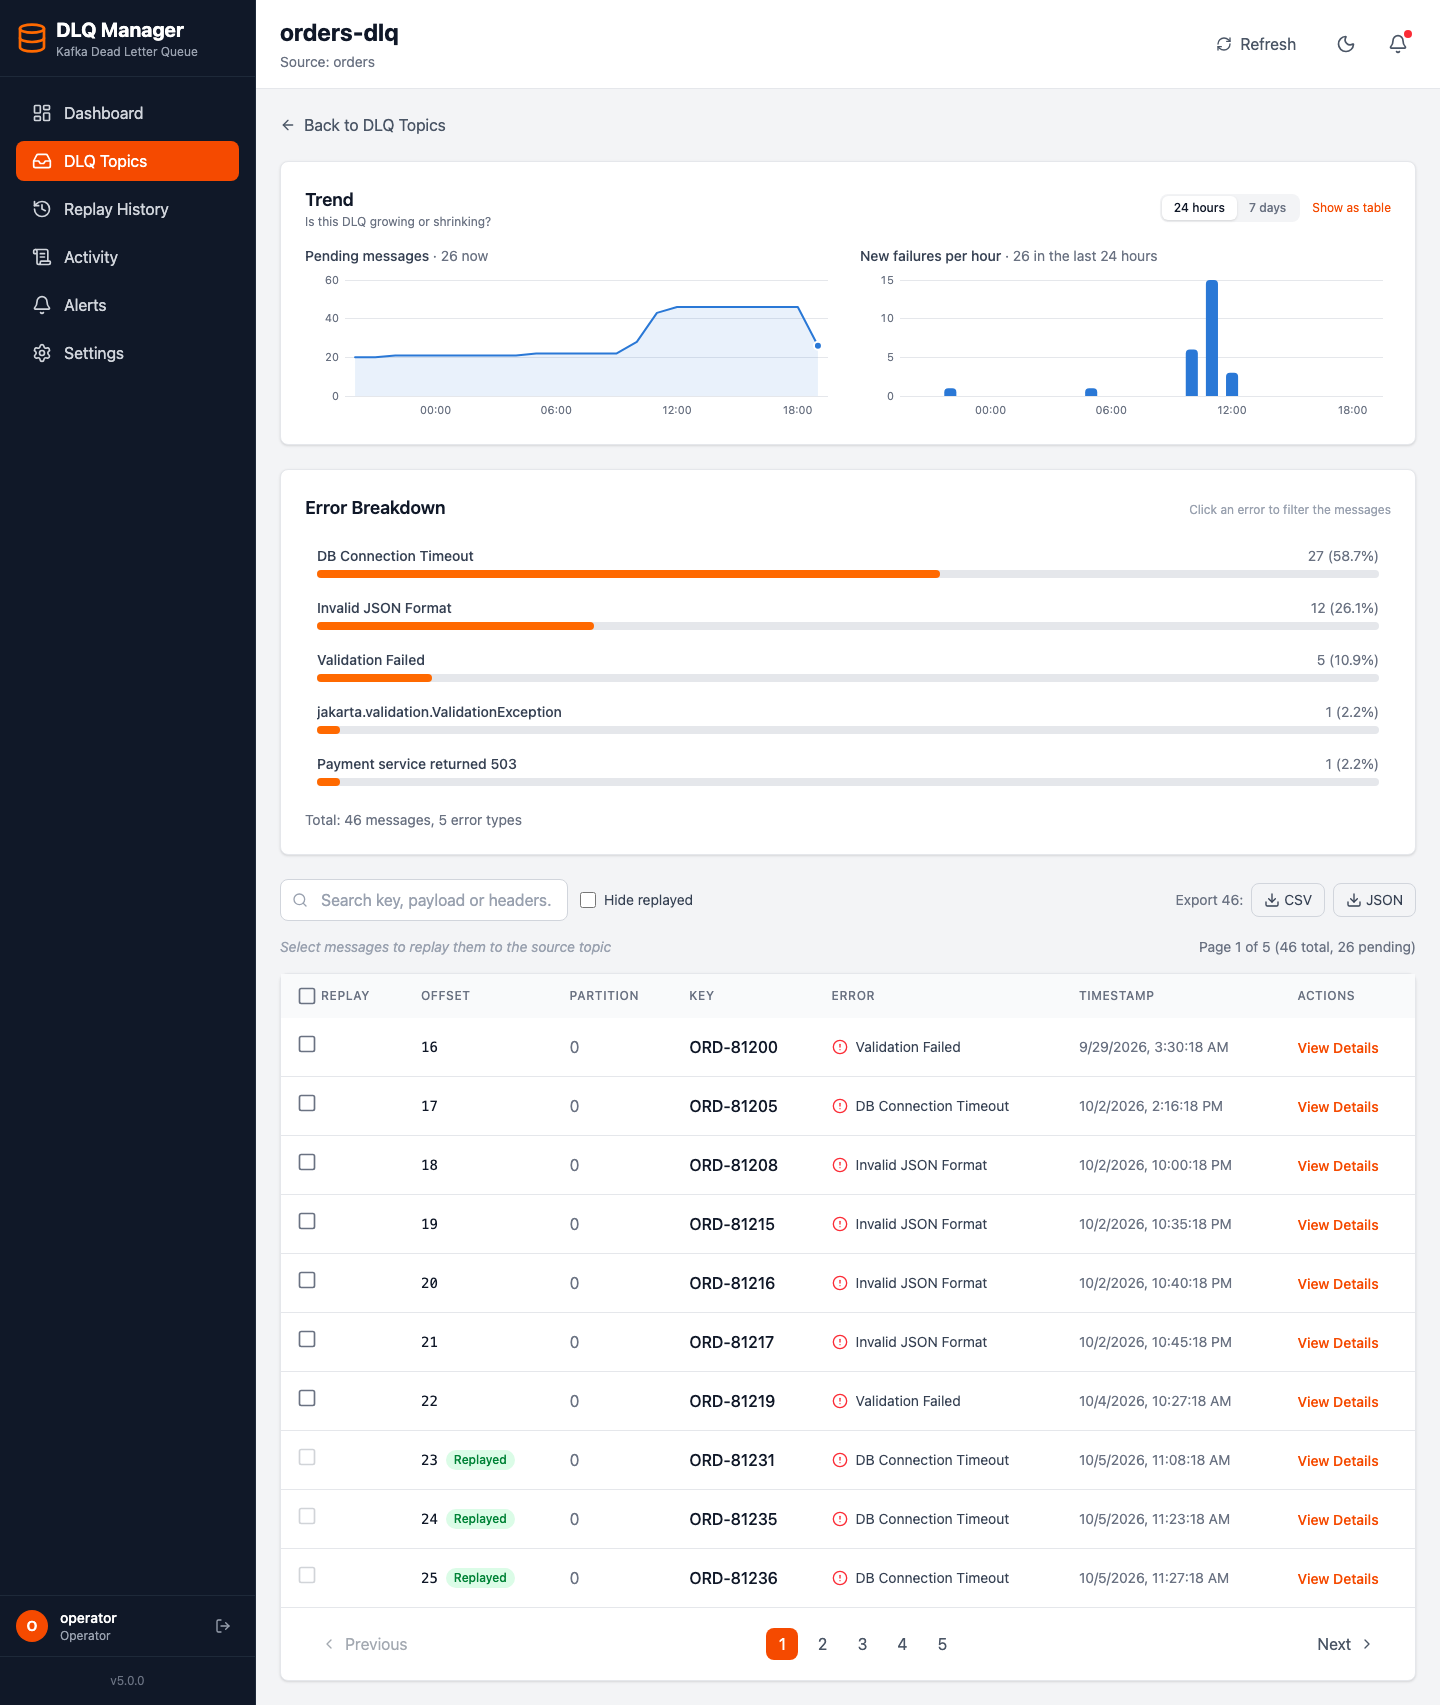
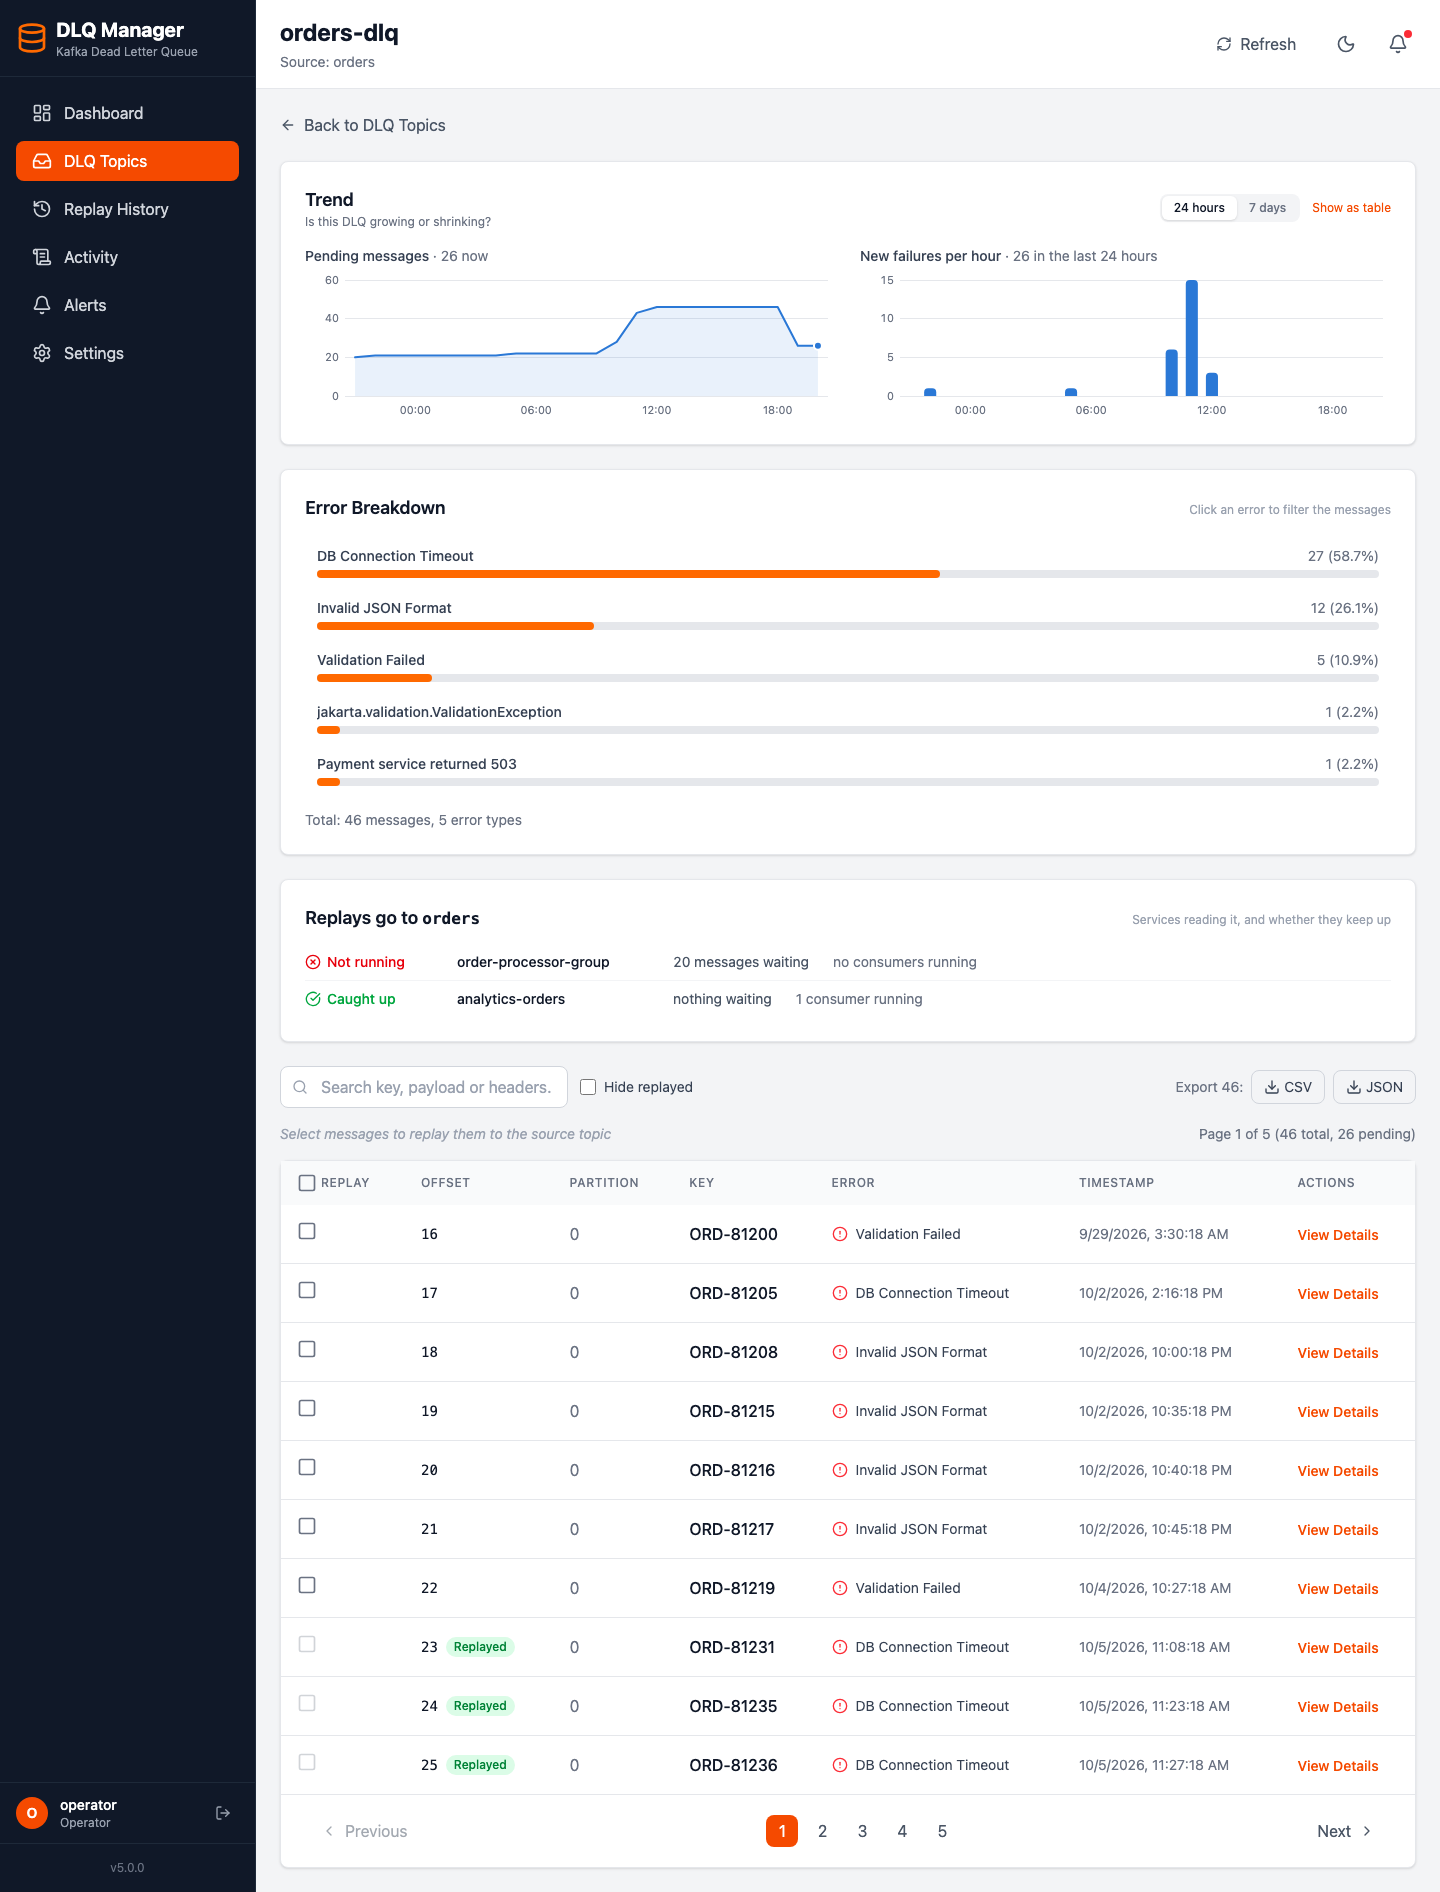
feat: warn before replaying into a stopped or lagging consumer

diff --git a/frontend/src/components/consumers/SourceConsumersCard.tsx b/frontend/src/components/consumers/SourceConsumersCard.tsx
@@ -1,0 +1,76 @@
+import { AlertTriangle, CheckCircle, RefreshCw, XCircle } from 'lucide-react';
+import type { ConsumerStatus, SourceConsumer } from '../../types';
+import { useSourceConsumers } from '../../hooks/useSourceConsumers';
+
+// Status is always an icon plus a word, never colour alone
+const STATUS: Record<ConsumerStatus, { label: string; icon: typeof CheckCircle; className: string }> = {
+  NOT_RUNNING: { label: 'Not running', icon: XCircle, className: 'text-red-600 dark:text-red-400' },
+  BEHIND: { label: 'Behind', icon: AlertTriangle, className: 'text-amber-600 dark:text-amber-400' },
+  REBALANCING: { label: 'Rebalancing', icon: RefreshCw, className: 'text-blue-600 dark:text-blue-400' },
+  CAUGHT_UP: { label: 'Caught up', icon: CheckCircle, className: 'text-green-600 dark:text-green-400' },
+};
+
+/**
+ * Who picks up replayed messages: the consumer groups of the DLQ's source topic.
+ * Replaying into a service that is down or far behind just moves the problem.
+ */
+export function SourceConsumersCard({ dlqTopicId }: { dlqTopicId: string }) {
+  const { data, isLoading, isError } = useSourceConsumers(dlqTopicId);
+
+  return (
+    <div className="bg-white dark:bg-gray-800 rounded-lg shadow-sm border border-gray-200 dark:border-gray-700 p-6 mb-6">
+      <div className="flex flex-wrap items-baseline justify-between gap-2 mb-3">
+        <h3 className="text-lg font-semibold text-gray-900 dark:text-white">
+          Replays go to {data ? <span className="font-mono text-base">{data.sourceTopic}</span> : 'the source topic'}
+        </h3>
+        <span className="text-xs text-gray-400 dark:text-gray-500">Services reading it, and whether they keep up</span>
+      </div>
+
+      {isLoading ? (
+        <p className="text-sm text-gray-500 dark:text-gray-400">Checking consumers...</p>
+      ) : isError || !data ? (
+        <p className="text-sm text-gray-500 dark:text-gray-400">Could not check the consumers of the source topic.</p>
+      ) : !data.topicExists ? (
+        <p className="flex items-center gap-2 text-sm text-red-600 dark:text-red-400">
+          <XCircle className="w-4 h-4 flex-shrink-0" />
+          "{data.sourceTopic}" doesn't exist in Kafka, so replays to it will fail.
+        </p>
+      ) : data.consumers.length === 0 ? (
+        <p className="flex items-center gap-2 text-sm text-amber-700 dark:text-amber-400">
+          <AlertTriangle className="w-4 h-4 flex-shrink-0" />
+          No service has read "{data.sourceTopic}" yet - replayed messages will wait there until one does.
+        </p>
+      ) : (
+        <ul className="divide-y divide-gray-100 dark:divide-gray-700">
+          {data.consumers.map((consumer) => (
+            <ConsumerRow key={consumer.groupId} consumer={consumer} />
+          ))}
+        </ul>
+      )}
+    </div>
+  );
+}
+
+function ConsumerRow({ consumer }: { consumer: SourceConsumer }) {
+  const status = STATUS[consumer.status];
+  const Icon = status.icon;
+  return (
+    <li className="flex flex-wrap items-center gap-x-6 gap-y-1 py-2 text-sm">
+      <span className={`flex items-center gap-1.5 w-32 font-medium ${status.className}`}>
+        <Icon className="w-4 h-4 flex-shrink-0" />
+        {status.label}
+      </span>
+      <span className="font-medium text-gray-900 dark:text-white min-w-48">{consumer.groupId}</span>
+      <span className="text-gray-600 dark:text-gray-300 tabular-nums">
+        {consumer.lag === 0
+          ? 'nothing waiting'
+          : `${consumer.lag.toLocaleString()} message${consumer.lag === 1 ? '' : 's'} waiting`}
+      </span>
+      <span className="text-gray-500 dark:text-gray-400">
+        {consumer.members === 0
+          ? 'no consumers running'
+          : `${consumer.members} consumer${consumer.members === 1 ? '' : 's'} running`}
+      </span>
+    </li>
+  );
+}

diff --git a/frontend/src/pages/DlqTopicDetailPage.tsx b/frontend/src/pages/DlqTopicDetailPage.tsx
@@ -3,6 +3,8 @@ import { useParams, Link } from 'react-router-dom';
 import { useQuery, useMutation, useQueryClient, keepPreviousData } from '@tanstack/react-query';
 import { Header } from '../components/layout';
 import { DlqTrendCard } from '../components/trend/DlqTrendCard';
+import { SourceConsumersCard } from '../components/consumers/SourceConsumersCard';
+import { replayWarning, useSourceConsumers } from '../hooks/useSourceConsumers';
 import { dlqTopicsApi } from '../api/dlqTopics';
 import { replayApi } from '../api/replay';
 import type { DlqMessage } from '../types';
@@ -39,6 +41,9 @@ export function DlqTopicDetailPage() {
   const [pendingOnly, setPendingOnly] = useState(false);
   const searchTimer = useRef<number | undefined>(undefined);
   const hasFilters = search !== '' || errorType !== null || pendingOnly;
+
+  // Who reads the source topic: checked before replaying, so nobody replays into a stopped service unawares
+  const { data: sourceConsumers } = useSourceConsumers(id);
 
   const { data: topic } = useQuery({
     queryKey: ['dlqTopic', id],
@@ -102,6 +107,7 @@ export function DlqTopicDetailPage() {
       setSelectedMessages(new Set());
       refetch();
       queryClient.invalidateQueries({ queryKey: ['replayHistory'] });
+      queryClient.invalidateQueries({ queryKey: ['sourceConsumers', id] });
       showReplayNotice(data.message, data.replayJob.failed > 0);
     },
     onError: () => {
@@ -144,6 +150,11 @@ export function DlqTopicDetailPage() {
       return { partition, offset };
     });
 
+    const warning = replayWarning(sourceConsumers, messages.length);
+    if (warning && !window.confirm(`${warning}\n\nReplay anyway?`)) {
+      return;
+    }
+
     try {
       await replayMutation.mutateAsync({
         dlqTopicId: id,
@@ -155,6 +166,10 @@ export function DlqTopicDetailPage() {
   };
 
   const handleReplayFromModal = async (message: DlqMessage) => {
+    const warning = replayWarning(sourceConsumers, 1);
+    if (warning && !window.confirm(`${warning}\n\nReplay anyway?`)) {
+      return;
+    }
     if (message.replayed && !window.confirm(
       'This message was already replayed. Sending it again may process it twice in the source system. Replay anyway?'
     )) {
@@ -241,6 +256,9 @@ export function DlqTopicDetailPage() {
             </p>
           </div>
         )}
+
+        {/* Where replays go: the services reading the source topic */}
+        {id && <SourceConsumersCard dlqTopicId={id} />}
 
         {/* Replay result */}
         {replayNotice && (

diff --git a/frontend/src/hooks/useSourceConsumers.ts b/frontend/src/hooks/useSourceConsumers.ts
@@ -1,0 +1,57 @@
+import { useQuery } from '@tanstack/react-query';
+import { dlqTopicsApi } from '../api/dlqTopics';
+import type { SourceConsumer, SourceConsumers } from '../types';
+
+// A consumer this far behind gets a warning before a replay (a little lag is normal on a busy topic)
+const FAR_BEHIND = 1_000;
+
+/**
+ * Consumer groups of the DLQ's source topic. The server remembers the answer for 30 seconds,
+ * so checking every 30 seconds here keeps the page current without extra load on Kafka.
+ */
+export function useSourceConsumers(dlqTopicId: string | undefined) {
+  return useQuery({
+    queryKey: ['sourceConsumers', dlqTopicId],
+    queryFn: () => dlqTopicsApi.getSourceConsumers(dlqTopicId!),
+    enabled: !!dlqTopicId,
+    refetchInterval: 30_000,
+    retry: false,
+  });
+}
+
+/**
+ * What an operator should know before replaying, or null if the consumers look fine
+ */
+export function replayWarning(info: SourceConsumers | undefined, messageCount: number): string | null {
+  if (!info) {
+    return null;
+  }
+  const topic = info.sourceTopic;
+  const replayed = messageCount === 1 ? 'the replayed message' : `the ${messageCount} replayed messages`;
+
+  if (!info.topicExists) {
+    return `The source topic "${topic}" doesn't exist in Kafka, so the replay will fail.`;
+  }
+  if (info.consumers.length === 0) {
+    return `No service has read "${topic}" yet, so ${replayed} will wait there until one does.`;
+  }
+
+  const stopped = info.consumers.filter((consumer) => consumer.status === 'NOT_RUNNING');
+  if (stopped.length > 0) {
+    return `${names(stopped)} ${stopped.length === 1 ? 'is' : 'are'} not running, so ${replayed} `
+      + `will wait in "${topic}" until ${stopped.length === 1 ? 'it starts' : 'they start'}.`;
+  }
+
+  const farBehind = info.consumers.filter((consumer) => consumer.status === 'BEHIND' && consumer.lag >= FAR_BEHIND);
+  if (farBehind.length > 0) {
+    const lag = Math.max(...farBehind.map((consumer) => consumer.lag)).toLocaleString();
+    return `${names(farBehind)} ${farBehind.length === 1 ? 'is' : 'are'} ${lag} messages behind, `
+      + `so ${replayed} will only be processed after those.`;
+  }
+  return null;
+}
+
+function names(consumers: SourceConsumer[]): string {
+  const shown = consumers.slice(0, 2).map((consumer) => consumer.groupId).join(' and ');
+  return consumers.length > 2 ? `${shown} and ${consumers.length - 2} more` : shown;
+}

diff --git a/frontend/src/api/dlqTopics.ts b/frontend/src/api/dlqTopics.ts
@@ -1,5 +1,5 @@
 import apiClient from './client';
-import type { DlqTopic, MessagePage, ErrorBreakdown, MessageFilters, DlqTrend, TrendRangeCode } from '../types';
+import type { DlqTopic, MessagePage, ErrorBreakdown, MessageFilters, DlqTrend, TrendRangeCode, SourceConsumers } from '../types';
 
 export const dlqTopicsApi = {
   // Get all DLQ topics
@@ -84,6 +84,12 @@ export const dlqTopicsApi = {
   getTrend: async (id: string, range: TrendRangeCode): Promise<DlqTrend> => {
     const utcOffsetMinutes = -new Date().getTimezoneOffset();
     const response = await apiClient.get(`/api/dlq-topics/${id}/trend`, { params: { range, utcOffsetMinutes } });
+    return response.data;
+  },
+
+  // Who reads the source topic replays go to, and whether they keep up
+  getSourceConsumers: async (id: string): Promise<SourceConsumers> => {
+    const response = await apiClient.get(`/api/dlq-topics/${id}/source-consumers`);
     return response.data;
   },
 

diff --git a/frontend/src/types/index.ts b/frontend/src/types/index.ts
@@ -62,6 +62,23 @@ export interface DlqTrend {
   points: TrendPoint[];
 }
 
+// Consumer groups that read a DLQ's source topic (where replays go)
+export type ConsumerStatus = 'CAUGHT_UP' | 'BEHIND' | 'NOT_RUNNING' | 'REBALANCING';
+
+export interface SourceConsumer {
+  groupId: string;
+  state: string;    // Kafka's group state, e.g. STABLE or EMPTY
+  members: number;  // consumers running in the group
+  lag: number;      // messages not processed yet
+  status: ConsumerStatus;
+}
+
+export interface SourceConsumers {
+  sourceTopic: string;
+  topicExists: boolean;
+  consumers: SourceConsumer[]; // the ones needing attention first
+}
+
 export interface ErrorBreakdownItem {
   errorType: string;
   count: number;

diff --git a/README.md b/README.md
@@ -29,7 +29,7 @@ This project started as a weekend experiment and has grown into a full platform 
 
 - **Browse** failed messages across all your DLQ topics, paginated
 - **Analyze** error patterns with a per-topic error breakdown, and see whether a DLQ is growing or shrinking on a 24-hour / 7-day trend chart
-- **Replay** single or bulk messages back to the source topic
+- **Replay** single or bulk messages back to the source topic, and see first whether the services reading that topic are running and keeping up (consumer lag) — with a warning before replaying into one that isn't
 - **Track** every replay operation with a full audit trail
 - **Configure** Kafka connections from the UI — no restart needed, including clusters that need a login and encryption (SASL + TLS)
 - **Alert** when a DLQ crosses a threshold, with Slack notifications
@@ -226,6 +226,7 @@ CI runs the full backend suite plus frontend lint and build on every push.
 ![Message Browser with Error Breakdown](assets/04-topic-detail-error-breakdown.png)
 ![Trend: pending messages and new failures per hour](assets/33-topic-trend.png)
 ![Trend over 7 days (Dark)](assets/34-dark-topic-trend.png)
+![Where replays go: consumers of the source topic and their lag](assets/35-source-consumers.png)
 ![Filtered by error type, replayed messages hidden](assets/27-search-filter.png)
 ![Message Detail](assets/05-message-detail-modal.png)
 ![Message Browser Dark](assets/31-dark-topic-detail.png)
@@ -297,6 +298,7 @@ All other endpoints need a session (the web UI) or HTTP Basic credentials (scrip
 | `GET` | `/api/dlq-topics/{id}/messages/export` | Download messages as `format=csv` or `format=json` (same filters) |
 | `GET` | `/api/dlq-topics/{id}/error-breakdown` | Error type statistics |
 | `GET` | `/api/dlq-topics/{id}/trend` | Pending messages and new failures over time (`range=24h` or `7d`) |
+| `GET` | `/api/dlq-topics/{id}/source-consumers` | Consumer groups of the source topic: running or not, and their lag |
 
 ### Replay
 | Method | Endpoint | Description |

diff --git a/TODO.md b/TODO.md
@@ -68,7 +68,7 @@
 ### Analytics
 - [x] Trend chart per DLQ: pending messages and new failures over the last 24 hours or 7 days
 - [ ] Real-time message count updates
-- [ ] Kafka consumer lag monitoring
+- [x] Consumer lag of the source topic on each DLQ page, with a warning before replaying into a stopped or lagging service
 
 ### Deployment
 - [x] Run the whole app with one `docker compose up` (backend + frontend images)
